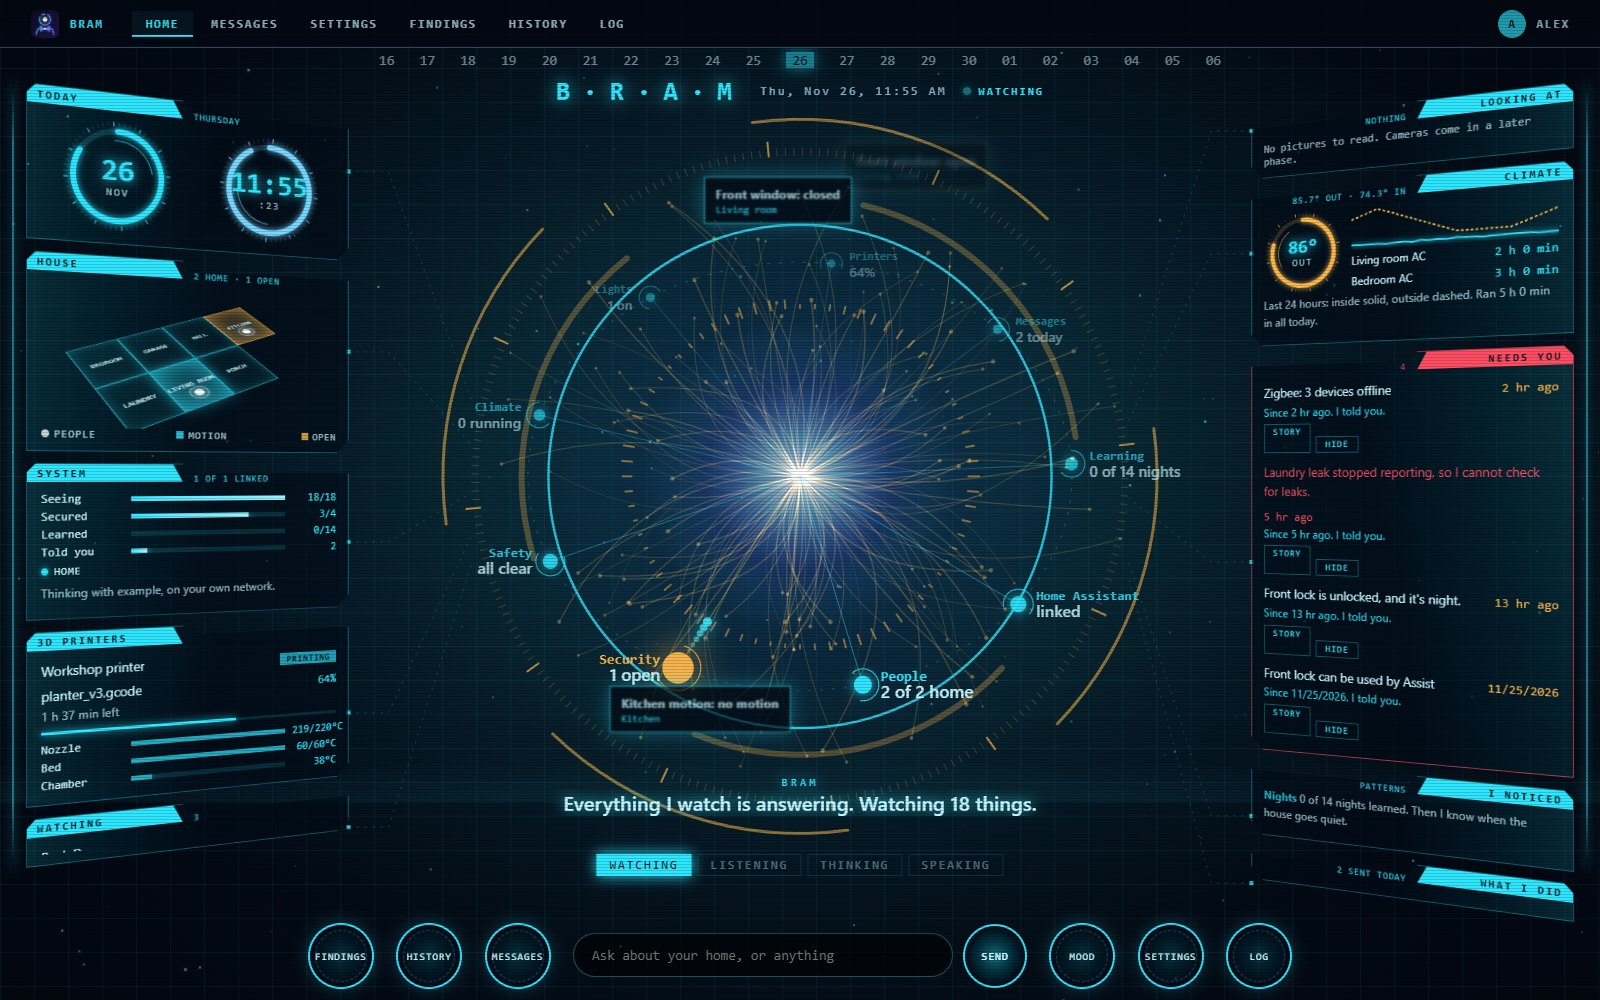
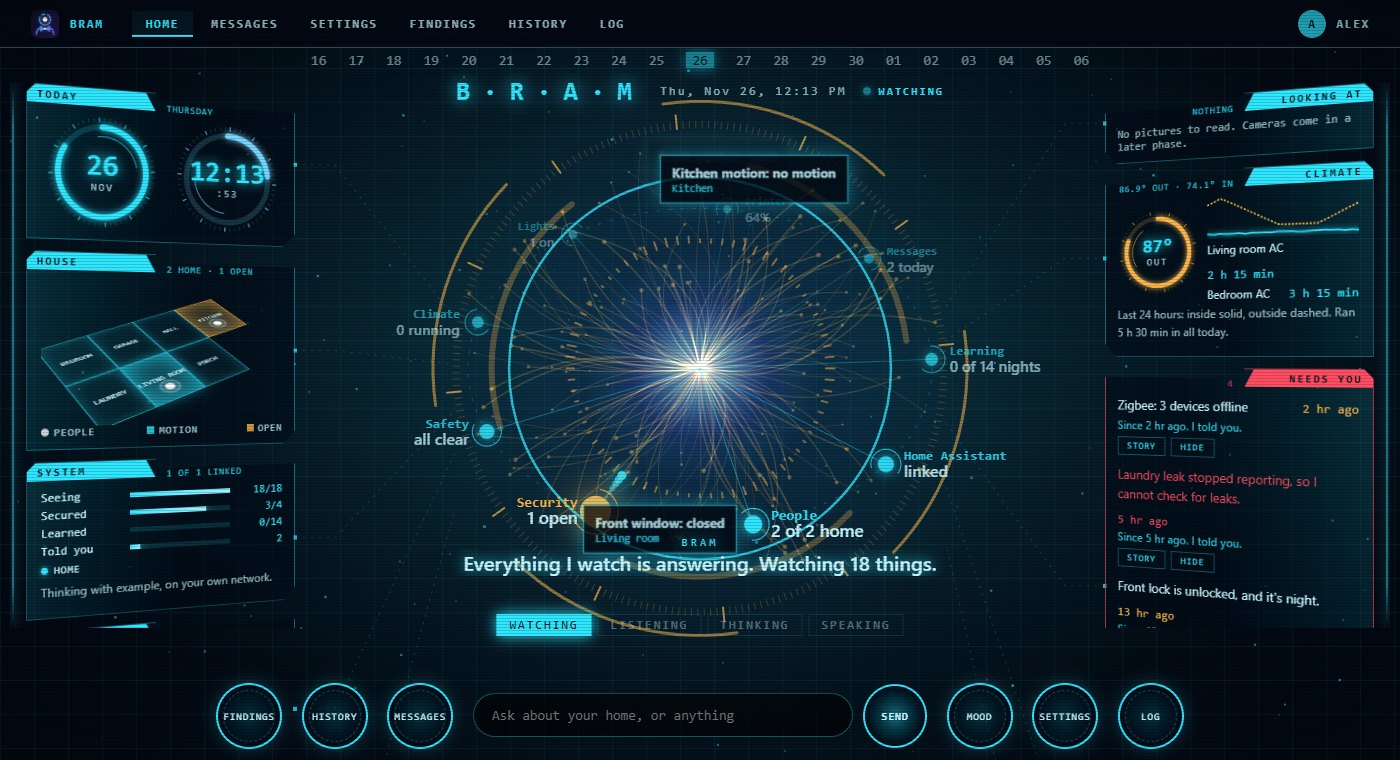
0.32.2: Home sides scroll on shorter screens, dock on one line

Changed region(s): [[0.0, 0.0, 0.7986, 0.9987], [0.7679, 0.0, 1.0, 0.9382], [0.5836, 0.8776, 0.86, 0.9987]]

diff --git a/server/bram/static/deck.css b/server/bram/static/deck.css
@@ -252,3 +252,18 @@ body.command { --cyan: var(--hud); --violet: var(--hud); --night: rgb(0 4 10 / .
 @media (max-width: 900px), (max-height: 640px) { #focus { position: fixed; inset: 60px 12px 12px; width: auto; min-width: 0; transform: none; } }
 #hud:has(#focus:not([hidden])) #hud-events { display: none; }
 #hud .acts button, #hud .acts a { display: inline-block; height: 20px; box-sizing: border-box; padding: 0 10px; line-height: 18px; margin: 0; }
+
+/* --- screens that fit any height: each side scrolls when it has more than fits --- */
+.side { overflow-y: auto; overflow-x: hidden; scrollbar-width: thin; scrollbar-color: var(--hud-dim) transparent; padding: 0 0 8px; }
+#hud-left { left: 10px; padding-left: 16px; }
+#hud-right { right: 10px; padding-right: 16px; }
+#hud-left::before { left: 2px; }
+#hud-right::before { right: 2px; }
+.side .glass { flex-shrink: 0; }
+.side .glass.grow { flex: 1 0 auto; min-height: 140px; }
+.glass.grow .scroller { max-height: 320px; }
+#slot-chat { flex-direction: row; }
+#slot-chat #aloud-box { display: flex; align-items: center; gap: 6px; width: 64px; height: 64px; box-sizing: border-box; justify-content: center; flex-direction: column; border: 1px dashed var(--hud-line); border-radius: 50%; font-size: .56rem; text-align: center; cursor: pointer; }
+#slot-chat #aloud-box[hidden] { display: none; }
+#slot-chat #aloud-box:has(:checked) { border-style: solid; border-color: var(--hud); color: var(--hud); }
+.side { padding-bottom: 36px; mask-image: linear-gradient(#000 calc(100% - 36px), transparent); }

diff --git a/server/bram/static/deck.js b/server/bram/static/deck.js
@@ -133,7 +133,7 @@ const deck = (() => {
     g.beginPath(); g.ellipse(cx, cy, rx, ry, 0, from, to); g.stroke(); g.restore();
   }
 
-  function center() { return { x: w / 2, y: h * .45, r: Math.min(w * .1, h * .15) }; }
+  function center() { return { x: w / 2, y: h * .45, r: Math.min(w * .1, h * .13) }; }
 
   // The orbit stays in the open space between the side screens.
   function orbitWidth(o) {

diff --git a/docs/home.md b/docs/home.md
@@ -21,7 +21,7 @@ Screens down both sides each have a tab. They lean in toward the brain; point at
 | **I noticed** | Patterns: a room sensor that reads warmer or cooler than its thermostat over the week, how many nights are learned, and things not reporting |
 | **What I did** | What BRAM told your phone, held back, or was told to stop today, and why something was held. See [How often BRAM tells you](how-often.md) |
 
-Screens with nothing to show stay hidden.
+Screens with nothing to show stay hidden. When a side has more than fits, scroll it.
 
 ## A closer look
 

diff --git a/CHANGELOG.md b/CHANGELOG.md
@@ -2,6 +2,11 @@
 
 ## Unreleased
 
+## 0.32.2
+
+- Home: on a shorter screen, each side scrolls when its screens do not all fit, instead of running off the bottom.
+- Home: Speak answers is a round switch in the dock, so the dock stays on one line.
+
 ## 0.32.1
 
 - Home: a 3D printers screen again, shown only while a print is running or paused, or when a printer has a problem: progress, time left, file, and temperatures against target.
